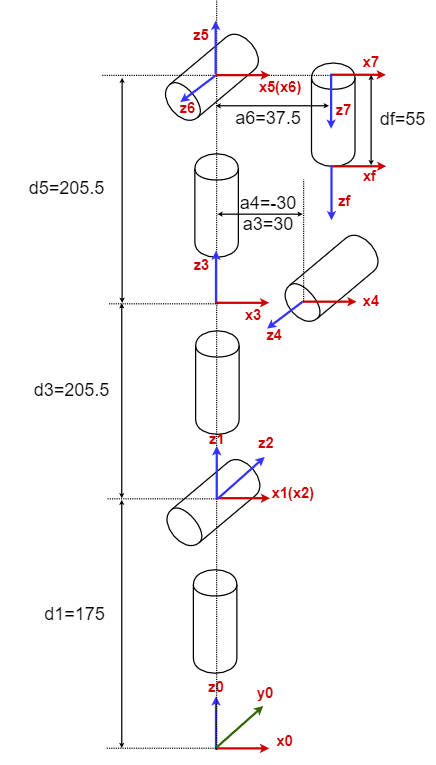
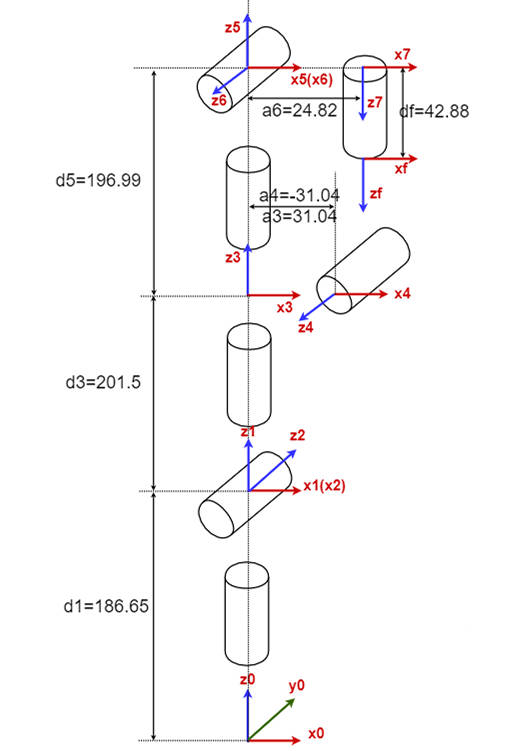
The DH parameter has been modified

Changed region(s): [[0.0596, 0.0, 0.9839, 1.0]]

diff --git a/2-ProductFeature/2.5-CoordinateSystem.md b/2-ProductFeature/2.5-CoordinateSystem.md
@@ -13,9 +13,10 @@
 
 ### 2.5.2 DH参数
 DH建模：
+
 <img src="../resources/2-ProductFeature/MercuryDH.jpg" style="zoom:70%;" />
 
-SDH参数表：
+MDH参数表：
 
 <img src="../resources/2-ProductFeature/DH参数.jpg" style="zoom:100%;" />
 
